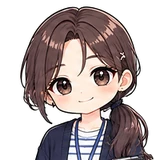
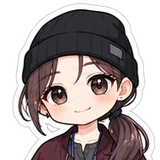
수민 옷을 요즘 20대 스타일로
Claude-Session: https://claude.ai/code/session_013o6MwTRjv9wdDZ1RWn6mmU

diff --git a/sw.js b/sw.js
@@ -1,5 +1,5 @@
 // 자동 생성 파일: tools/build.py가 만든다. 직접 고치지 말고 tools/sw.template.js를 고칠 것
-const CACHE='humzzwi-2026.10.09-e61bfe';
+const CACHE='humzzwi-2026.10.09-883eae';
 const ASSETS=["./", "index.html", "manifest.json", "icon-192.png", "icon-512.png", "apple-touch-icon.png", "fonts/GowunDodum-Regular.woff2", "fonts/Jua-Regular.woff2", "assets/a_bear.webp", "assets/a_daram.webp", "assets/a_daram_f.webp", "assets/a_eunbin.webp", "assets/a_fox.webp", "assets/a_hanmin.webp", "assets/a_hyunsu.webp", "assets/a_hz_walk.webp", "assets/a_hz_walk_b.webp", "assets/a_jaemin.webp", "assets/a_jiyoung.webp", "assets/a_lab.webp", "assets/a_sangho.webp", "assets/a_seohwi.webp", "assets/a_sumin.webp", "assets/badge.webp", "assets/c_ai.webp", "assets/c_ai_b.webp", "assets/c_blind.webp", "assets/c_blind_b.webp", "assets/c_blog.webp", "assets/c_blog_b.webp", "assets/c_cafe.webp", "assets/c_cafe_b.webp", "assets/c_coffee.webp", "assets/c_coffee_b.webp", "assets/c_content.webp", "assets/c_content_b.webp", "assets/c_cs.webp", "assets/c_cs_b.webp", "assets/c_date.webp", "assets/c_date_b.webp", "assets/c_daytrip.webp", "assets/c_daytrip_b.webp", "assets/c_english.webp", "assets/c_english_b.webp", "assets/c_erp.webp", "assets/c_erp_b.webp", "assets/c_ev_ceo.webp", "assets/c_ev_ceo_b.webp", "assets/c_ev_jobup.webp", "assets/c_ev_jobup_b.webp", "assets/c_ev_promo.webp", "assets/c_ev_promo_b.webp", "assets/c_excel.webp", "assets/c_excel_b.webp", "assets/c_filling.webp", "assets/c_filling_b.webp", "assets/c_formula.webp", "assets/c_formula_b.webp", "assets/c_friends.webp", "assets/c_friends_b.webp", "assets/c_global.webp", "assets/c_global_b.webp", "assets/c_gym.webp", "assets/c_gym_b.webp", "assets/c_half.webp", "assets/c_half_b.webp", "assets/c_ingredient.webp", "assets/c_ingredient_b.webp", "assets/c_jeju.webp", "assets/c_jeju_b.webp", "assets/c_keymsg.webp", "assets/c_keymsg_b.webp", "assets/c_leave.webp", "assets/c_leave_b.webp", "assets/c_lecture.webp", "assets/c_lecture_b.webp", "assets/c_license.webp", "assets/c_license_b.webp", "assets/c_logistics.webp", "assets/c_logistics_b.webp", "assets/c_mba.webp", "assets/c_mba_b.webp", "assets/c_md.webp", "assets/c_md_b.webp", "assets/c_minutes.webp", "assets/c_minutes_b.webp", "assets/c_orient.webp", "assets/c_orient_b.webp", "assets/c_overtime.webp", "assets/c_overtime_b.webp", "assets/c_package.webp", "assets/c_package_b.webp", "assets/c_pilates.webp", "assets/c_pilates_b.webp", "assets/c_pt.webp", "assets/c_pt_b.webp", "assets/c_research.webp", "assets/c_research_b.webp", "assets/c_review.webp", "assets/c_review_b.webp", "assets/c_run.webp", "assets/c_run_b.webp", "assets/c_schedule.webp", "assets/c_schedule_b.webp", "assets/c_selfdate.webp", "assets/c_selfdate_b.webp", "assets/c_settle.webp", "assets/c_settle_b.webp", "assets/c_shoot.webp", "assets/c_shoot_b.webp", "assets/c_shop_hb.webp", "assets/c_shop_hb_b.webp", "assets/c_shop_mall.webp", "assets/c_shop_mall_b.webp", "assets/c_shop_online.webp", "assets/c_shop_online_b.webp", "assets/c_snack.webp", "assets/c_snack_b.webp", "assets/c_store.webp", "assets/c_store_b.webp", "assets/c_tokyo.webp", "assets/c_tokyo_b.webp", "assets/c_trip.webp", "assets/c_trip_b.webp", "assets/c_walk.webp", "assets/c_walk_b.webp", "assets/d_coffeechat_f.webp", "assets/d_coffeechat_f_b.webp", "assets/d_coffeechat_m.webp", "assets/d_coffeechat_m_b.webp", "assets/d_coffeeget_f.webp", "assets/d_coffeeget_f_b.webp", "assets/d_coffeeget_m.webp", "assets/d_coffeeget_m_b.webp", "assets/d_coffeegive_f.webp", "assets/d_coffeegive_f_b.webp", "assets/d_coffeegive_m.webp", "assets/d_coffeegive_m_b.webp", "assets/d_coffeeshare_f.webp", "assets/d_coffeeshare_f_b.webp", "assets/d_coffeeshare_m.webp", "assets/d_coffeeshare_m_b.webp", "assets/d_confess_f.webp", "assets/d_confess_f_b.webp", "assets/d_confess_m.webp", "assets/d_confess_m_b.webp", "assets/d_picnic_f.webp", "assets/d_picnic_f_b.webp", "assets/d_picnic_m.webp", "assets/d_picnic_m_b.webp", "assets/d_ramen_f.webp", "assets/d_ramen_f_b.webp", "assets/d_ramen_m.webp", "assets/d_ramen_m_b.webp", "assets/ev_arrive.webp", "assets/ev_arrive_b.webp", "assets/ev_building.webp", "assets/ev_dinner.webp", "assets/ev_overload.webp", "assets/ev_pass.webp", "assets/ev_pass_b.webp", "assets/ev_present.webp", "assets/ev_reject.webp", "assets/ev_reject_b.webp", "assets/ev_studio.webp", "assets/ev_studio_b.webp", "assets/ev_subway.webp", "assets/ev_subway_b.webp", "assets/f_bear.webp", "assets/f_ceo.webp", "assets/f_daram.webp", "assets/f_daram_f.webp", "assets/f_eunbin.webp", "assets/f_fox.webp", "assets/f_hanmin.webp", "assets/f_hyunsu.webp", "assets/f_hz.webp", "assets/f_jaemin.webp", "assets/f_jiyoung.webp", "assets/f_lab.webp", "assets/f_sangho.webp", "assets/f_seohwi.webp", "assets/f_sumin.webp", "assets/hz.png", "assets/id_bad.webp", "assets/id_good.webp", "assets/id_ok.webp", "assets/lunch.webp", "assets/m_box.webp", "assets/m_box_b.webp", "assets/m_fit.webp", "assets/m_fit_b.webp", "assets/m_lab.webp", "assets/m_lab_b.webp", "assets/m_phone.webp", "assets/m_phone_b.webp", "assets/m_study.webp", "assets/m_study_b.webp", "assets/pl_boss.webp", "assets/pl_cafe.webp", "assets/pl_lab.webp", "assets/pl_mkt.webp", "assets/pl_ops.webp", "assets/pl_roof.webp", "assets/pl_sales.webp", "assets/pl_strat.webp", "assets/pl_studio.webp", "assets/pl_wh.webp", "assets/s_ceo.webp", "assets/s_coffee.webp", "assets/s_coffee_b.webp", "assets/s_dark.webp", "assets/s_dark_b.webp", "assets/s_desk.webp", "assets/s_desk_b.webp", "assets/s_eat.webp", "assets/s_eat_b.webp", "assets/s_jump.webp", "assets/s_jump_b.webp", "assets/s_sleep.webp", "assets/s_sleep_b.webp", "assets/s_walk.webp", "assets/s_walk_b.webp", "assets/sc_cafe.webp", "assets/sc_factory.webp", "assets/sc_gym.webp", "assets/sc_home.webp", "assets/sc_lab.webp", "assets/sc_meeting.webp", "assets/sc_office.webp", "assets/sc_package.webp", "assets/sc_park.webp", "assets/sc_popup.webp", "assets/sc_rain.webp", "assets/sc_store.webp", "assets/sc_studio.webp", "assets/sc_study.webp", "assets/v_short.webp", "assets/v_short_b.webp"];
 self.addEventListener('install',e=>{self.skipWaiting();e.waitUntil((async()=>{
   const c=await caches.open(CACHE),total=ASSETS.length,all=async()=>self.clients.matchAll({includeUncontrolled:true});

diff --git a/index.html b/index.html
@@ -7,7 +7,7 @@
 <meta name="apple-mobile-web-app-capable" content="yes"><meta name="mobile-web-app-capable" content="yes">
 <meta name="apple-mobile-web-app-status-bar-style" content="black-translucent"><meta name="apple-mobile-web-app-title" content="험쮜메이커">
 <meta name="theme-color" content="#2a1f33">
-<link rel="manifest" href="manifest.json?v=e61bfe"><link rel="apple-touch-icon" sizes="180x180" href="apple-touch-icon.png?v=e61bfe"><link rel="icon" type="image/png" sizes="192x192" href="icon-192.png?v=e61bfe">
+<link rel="manifest" href="manifest.json?v=883eae"><link rel="apple-touch-icon" sizes="180x180" href="apple-touch-icon.png?v=883eae"><link rel="icon" type="image/png" sizes="192x192" href="icon-192.png?v=883eae">
 <style>
 /* 글꼴은 파일로 같이 들고 다닌다 (비행기 모드에서도 같은 모양) */
 @font-face{font-family:"Jua";src:url(fonts/Jua-Regular.woff2) format("woff2");font-display:swap}
@@ -2382,7 +2382,7 @@ function showGroup(ks){let g=$('#group');if(!g){g=document.createElement('div');
   // 모두 같은 배율의 그림이라 BODY_T(실제 키) 비율 그대로 세운다
   g.innerHTML=ks.map((k,i)=>`<figure style="animation-delay:${i*.08}s" data-t="${bodyT(k)}"><figcaption>${JOB_TAG[k]?JOB_TAG[k]+' · '+given(k):who(k).name}</figcaption><img src="${IMG(sprOf(k))}" alt="${esc(who(k).name)}"></figure>`).join('');g.hidden=false;placeGroup()}
 // 모든 동료 그림은 한 장의 라인업에서 같은 배율로 오려낸 것. BODY_T = 그림의 실제 픽셀 키 (얼굴 크기는 모두 같다)
-const BODY_T={"sangho":597,"hyunsu":533,"hanmin":581,"seohwi":536,"jiyoung":493,"daram":585,"eunbin":515,"sumin":538,"jaemin":593,"daram_f":486},T_MAX=597;
+const BODY_T={"sangho":597,"hyunsu":533,"hanmin":581,"seohwi":536,"jiyoung":493,"daram":585,"eunbin":515,"sumin":556,"jaemin":593,"daram_f":486},T_MAX=597;
 const sprOf=k=>imgOf(k);
 const bodyT=k=>BODY_T[imgOf(k).slice(2)]||T_MAX;
 function placeGroup(){const g=$('#group');if(!g||g.hidden)return;const d=$('#dialog'),ph=$('#phone').clientHeight,top=d.hidden?ph-200:d.offsetTop;
@@ -2910,7 +2910,7 @@ document.addEventListener('click',e=>{const b=e.target.closest('[data-mset]');if
    말주머니로 질문 → 답을 고르면 업무 성과 평가(정답일수록 매출·해외 진출·♥ 상승). 한 달에 3번. */
 const SEAT={sangho:[30,26],hyunsu:[70,26],hanmin:[18,48],seohwi:[50,48],jiyoung:[82,48],daram:[13,70],eunbin:[37,70],sumin:[63,70],jaemin:[87,70]};
 // 캐릭터마다 원본 그림 크기가 달라서, 얼굴 폭이 같아 보이도록 자르는 값 [너비%, 왼쪽%, 위%]
-const CROP={"sangho": [110.3, -3.0, 4.8], "hyunsu": [112.7, -1.2, 4.8], "hanmin": [119.4, -7.0, 4.8], "seohwi": [110.3, -1.5, 4.8], "jiyoung": [98.2, 2.2, 4.8], "daram": [107.3, -0.6, 4.8], "eunbin": [169.7, -35.2, 4.8], "sumin": [103.0, 3.4, 4.8], "jaemin": [115.8, -1.5, 4.8], "daram_f": [105.5, -1.5, 4.8]};
+const CROP={"sangho": [110.3, -3.0, 4.8], "hyunsu": [112.7, -1.2, 4.8], "hanmin": [119.4, -7.0, 4.8], "seohwi": [110.3, -1.5, 4.8], "jiyoung": [98.2, 2.2, 4.8], "daram": [107.3, -0.6, 4.8], "eunbin": [169.7, -35.2, 4.8], "sumin": [130.9, -12.4, 4.8], "jaemin": [115.8, -1.5, 4.8], "daram_f": [105.5, -1.5, 4.8]};
 const SEAT_ROW=[[11.5,'부장실'],[81,'인턴석 · 문 바로 옆']];
 const MY_SEAT=[60,96];
 // 사무실에선 이름 대신 직무로 표기
@@ -3517,7 +3517,7 @@ $('#btn-start').onclick=async()=>{
 setSound(AU.on);
 /* ================= 빌드 코드 · 오프라인(홈 화면 앱) =================
    tools/build.py가 BUILD를 매긴다. 홈 화면에 추가하면 처음 한 번 그림을 전부 받아 두고, 그 뒤로는 비행기 모드에서도 실행된다 */
-const BUILD='2026.10.09-e61bfe';
+const BUILD='2026.10.09-883eae';
 $('#build-title').textContent=$('#build-menu').textContent=`빌드 ${BUILD}`;
 if('serviceWorker' in navigator&&/^https?:$/.test(location.protocol)){
   const bar=document.createElement('div');bar.className='sw-bar';bar.hidden=true;document.body.appendChild(bar);
